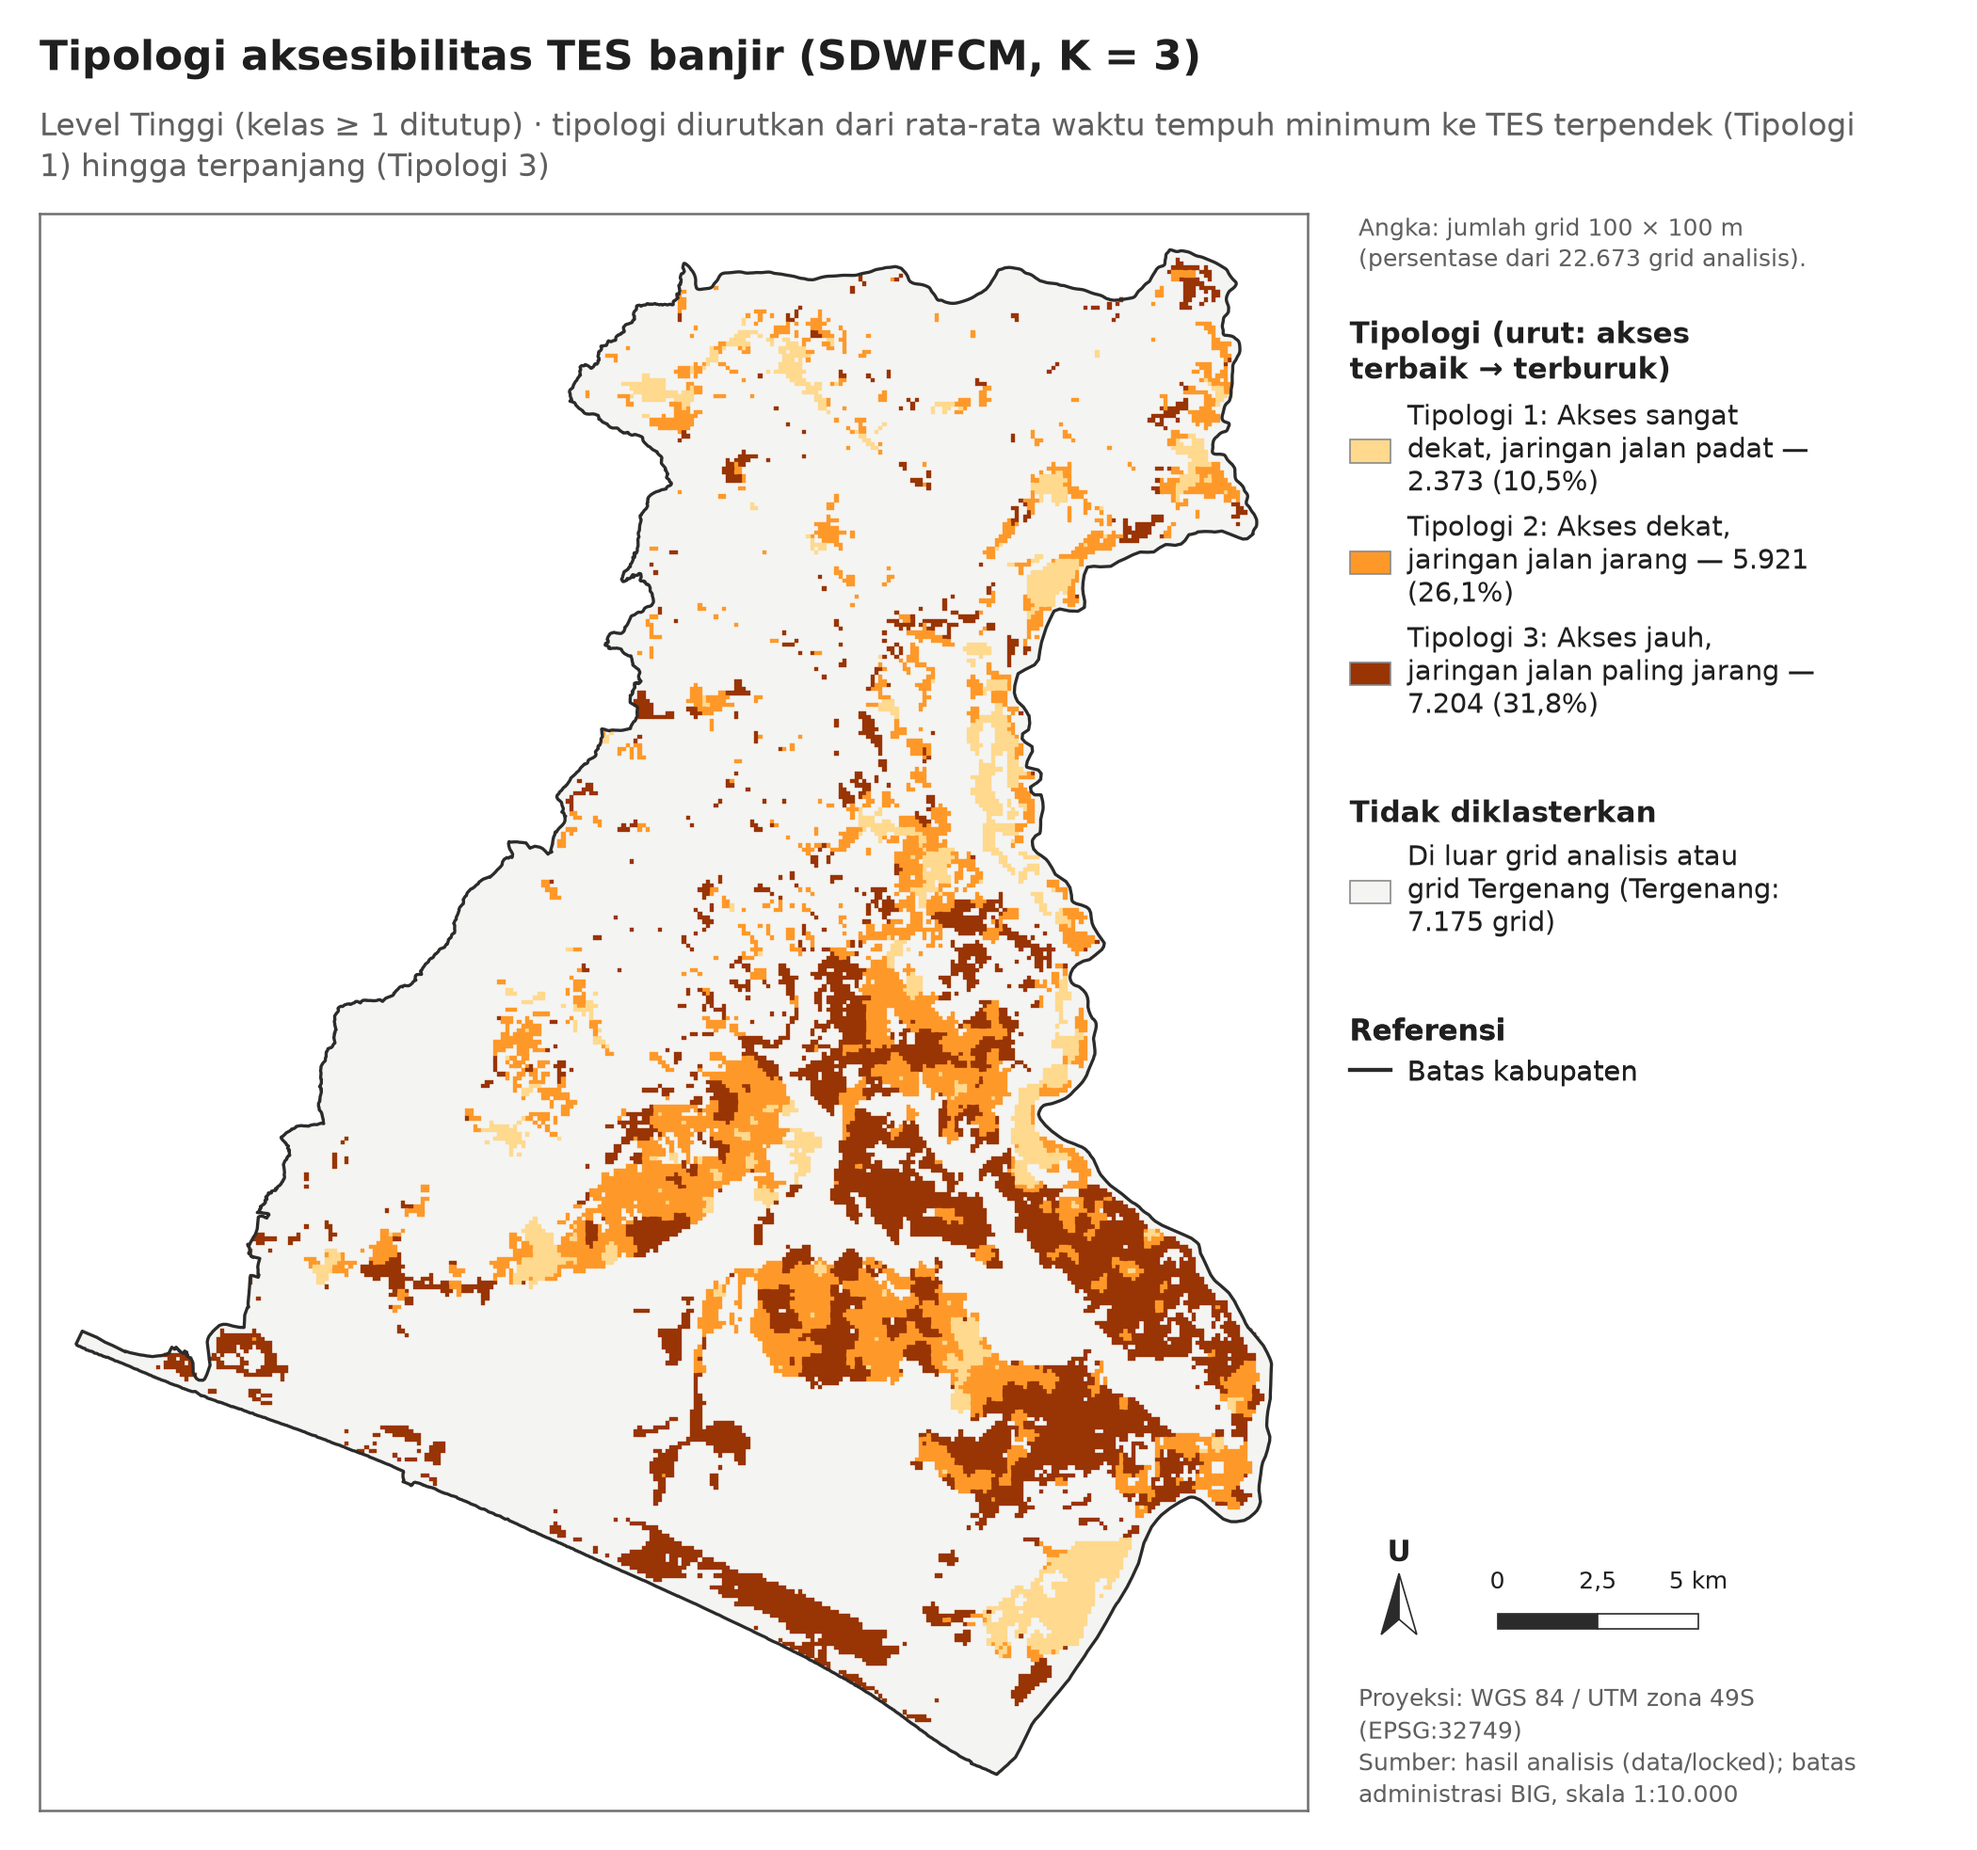
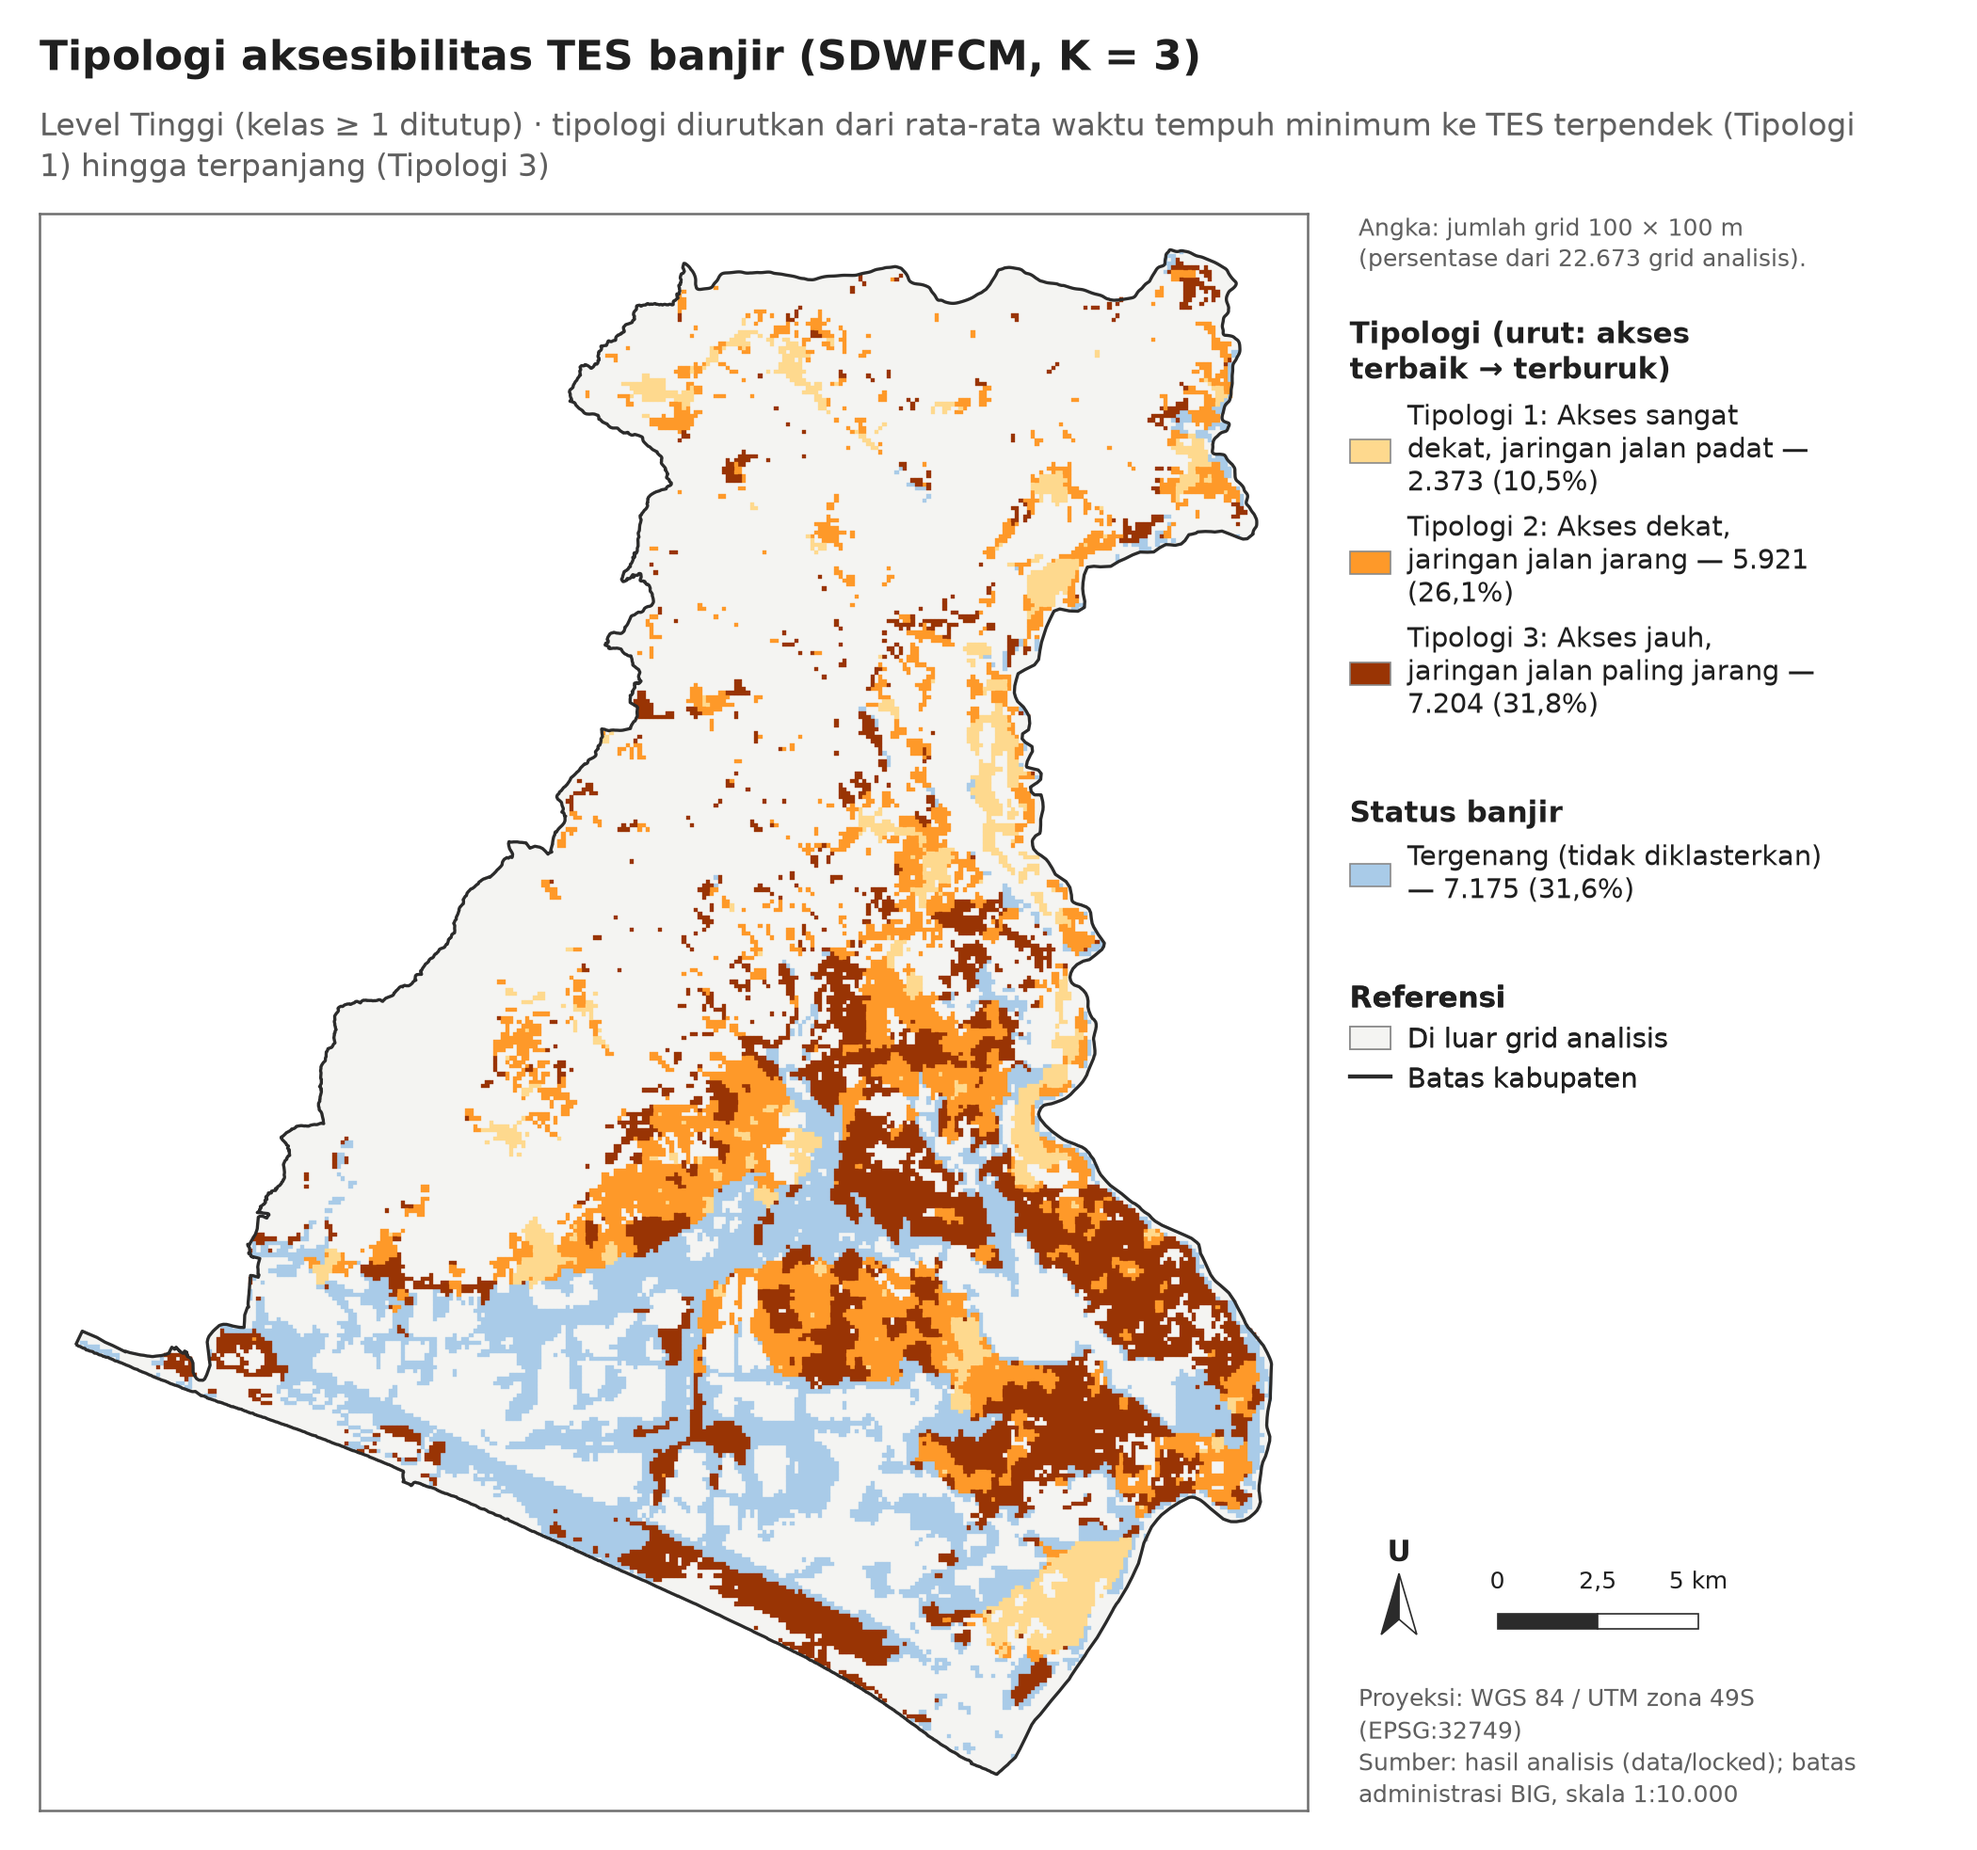
Peta tipologi/keanggotaan: pisahkan Tergenang dari area di luar grid analisis
- Grid Tergenang (tidak diklasterkan) digambar biru lembut dengan legenda "Status banjir" sendiri; area di luar
  grid analisis tetap abu-abu sangat muda di kelompok Referensi
- Skala warna keanggotaan dimulai dari YlOrBr 0,35 agar keanggotaan 0 tidak menyerupai latar netral
- CATATAN_TEMUAN N-3 diperbarui

Data, kelas, tabel, dan hasil terkunci tidak berubah.

diff --git a/scripts/export_bab4.py b/scripts/export_bab4.py
@@ -886,23 +886,28 @@ def write_maps(R, grid, out_dir):
                              if np.sum(m) else [])
     ev, v = PU.angka(EVAC_TIME_MIN), PU.angka(Cfg().walking_speed_m_per_min)
 
-    # 1. Tipologi SDWFCM (ordinal: Tipologi 1 = akses terbaik). Grid Tergenang tidak diklasterkan → tidak digambar
-    #    (keputusan peneliti; tampil pada peta Grid Tergenang) dan menyatu dengan latar netral "tidak diklasterkan".
+    # 1. Tipologi SDWFCM (ordinal: Tipologi 1 = akses terbaik). Grid Tergenang tidak diklasterkan; digambar biru
+    #    lembut (status banjir) agar tidak tertukar dengan area di luar grid analisis (netral).
     for k in [int(x) for x in R["k_keluaran"]]:
         pal = PU.TIPOLOGI[k]
         for key in LEVEL_ORDER:
             st = g[f"state_{key}_k{k}"].values
             ada = st < k
+            tg = st == k
+
+            def gambar(ax, st=st, ada=ada, tg=tg, pal=pal):
+                PU.isi_grid(ax, g[tg], W["tergenang_latar"])
+                PU.isi_grid(ax, g[ada], np.array(pal)[st[ada]])
             _peta_kabupaten(
                 d / f"tipologi_K{k}_{key}.png", f"Tipologi aksesibilitas TES banjir (SDWFCM, K = {k})",
                 f"{lv(key)} · tipologi diurutkan dari rata-rata waktu tempuh minimum ke TES terpendek (Tipologi 1) "
                 f"hingga terpanjang (Tipologi {k})",
-                lambda ax: PU.isi_grid(ax, g[ada], np.array(pal)[st[ada]]),
+                gambar,
                 [("Tipologi (urut: akses terbaik → terburuk)", [PU.kotak(pal[c], lab(tip(c, k), st == c))
                                                                 for c in range(k)]),
-                 ("Tidak diklasterkan", [PU.kotak(W["luar_grid"], "Di luar grid analisis atau grid Tergenang"
-                                         + (f" (Tergenang: {PU.angka(int(np.sum(st == k)))} grid)" if np.sum(st == k) else ""))]),
-                 ("Referensi", [PU.handle_batas_kab()])], catatan)
+                 *([("Status banjir", [PU.kotak(W["tergenang_latar"], lab("Tergenang (tidak diklasterkan)", tg))])]
+                   if np.sum(tg) else []),
+                 _referensi(PU)], catatan)
 
     # 2. Kategori akses (ordinal Terjangkau → Jauh → Terputus; Tergenang = status banjir terpisah)
     for key in ("baseline", "sedang", "tinggi"):
@@ -988,7 +993,8 @@ def write_maps(R, grid, out_dir):
 def write_membership_maps(R, g, d, plt, k=4, klaster=(2, 3)):
     """Peta derajat keanggotaan fuzzy terkunci (u_c, K = 4) terhadap Tipologi 3 dan Tipologi 4, per level. Hanya
     visualisasi dari thesis_pooled_results.csv.gz; grid Tergenang tidak diklasterkan sehingga tidak digambar (latar
-    netral "tidak diklasterkan"). Dua peta berdampingan dengan satu panel dan satu skala warna bersama."""
+    biru lembut sebagai status banjir, terpisah dari area di luar grid analisis). Dua peta berdampingan dengan satu
+    panel dan satu skala warna bersama."""
     import matplotlib
     from matplotlib.colors import LinearSegmentedColormap
     from scripts import peta_util as PU
@@ -996,7 +1002,8 @@ def write_membership_maps(R, g, d, plt, k=4, klaster=(2, 3)):
     if str(k) not in R["model"] or not pool_f.exists():
         return
     base = matplotlib.colormaps["YlOrBr"]
-    cmap = LinearSegmentedColormap.from_list("keanggotaan", base(np.linspace(0.15, 1.0, 256)))
+    # mulai 0,35: keanggotaan 0 tetap berbeda dari latar netral "di luar grid analisis"
+    cmap = LinearSegmentedColormap.from_list("keanggotaan", base(np.linspace(0.35, 1.0, 256)))
     cols = [f"u{c}_k{k}" for c in klaster]
     pool = pd.read_csv(pool_f, usecols=["id_grid", "level"] + cols)
     rasio = _rasio_kabupaten()
@@ -1006,7 +1013,9 @@ def write_membership_maps(R, g, d, plt, k=4, klaster=(2, 3)):
         for ax, c, col in zip(axes, klaster, cols):
             val = g["id_grid"].map(sub[col])
             ada = val.notna().values
+            tg = g[f"tergenang_{key}"].values == 1
             PU.latar_kabupaten(ax)
+            PU.isi_grid(ax, g[tg], PU.WARNA["tergenang_latar"])
             PU.isi_grid(ax, g[ada], cmap(val[ada].values))
             PU.gambar_batas(ax)
             PU.atur_batas(ax, *PU.batas_tampilan_kabupaten(rasio))
@@ -1016,9 +1025,10 @@ def write_membership_maps(R, g, d, plt, k=4, klaster=(2, 3)):
                  "terburuk (0 = bukan anggota, 1 = anggota penuh)")
         y = PU.kolorbar(panel, cmap, 0, 1, "Derajat keanggotaan")
         y_blok = PU.blok_bawah(panel, axes[0], SUMBER_PETA)
-        sisa = PU.legenda(panel, [("Tidak diklasterkan", [PU.kotak(PU.WARNA["luar_grid"],
-                                                                   "Di luar grid analisis atau grid Tergenang")]),
-                                  ("Referensi", [PU.handle_batas_kab()])], y_awal=y)
+        n_tg = int((g[f"tergenang_{key}"].values == 1).sum())
+        sisa = PU.legenda(panel, [*([("Status banjir", [PU.kotak(PU.WARNA["tergenang_latar"], PU.label_hitung(
+                                       "Tergenang (tidak diklasterkan)", n_tg, len(g)))])] if n_tg else []),
+                                  _referensi(PU)], y_awal=y)
         PU.periksa_ruang(sisa, y_blok, f"keanggotaan_K{k}_{key}")
         PU.simpan(fig, d / f"keanggotaan_K{k}_{key}.png")
 

diff --git a/scripts/peta_util.py b/scripts/peta_util.py
@@ -42,6 +42,7 @@ WARNA = {
     "luar_grid": "#f4f4f2",        # di dalam kabupaten, di luar grid analisis / tidak diklasterkan
     "grid_lain": "#c8c8c8",        # grid analisis tanpa kategori yang disorot (Non-TAS, bukan TAS, lainnya)
     "tergenang": "#5b9bd5",        # genangan banjir (satu-satunya pemakaian biru)
+    "tergenang_latar": "#a9cbe8",  # Tergenang pada peta yang tidak mengklasterkannya (biru sama, lebih lembut)
     "tak_terjangkau": "#7f2f0a",   # tidak terjangkau lewat jaringan jalan (bukan hitam: batas wilayah gelap)
     "tas": "#aa4499",              # Titik Aman Semu
     "dipicu": "#d55e00",           # muncul/dipicu oleh banjir

diff --git a/tests/test_peta_util.py b/tests/test_peta_util.py
@@ -100,7 +100,7 @@ def test_biru_hanya_untuk_banjir():
         return s_ > 0.25 and 185 <= h * 360 <= 245
     semua = {**P.WARNA, **{f"tip{k}_{i}": c for k, r in P.TIPOLOGI.items() for i, c in enumerate(r)},
              **{f"pend_{k}_{i}": c for k, r in P.PENDUDUK.items() for i, c in enumerate(r)}}
-    assert {k for k, c in semua.items() if biru(c)} <= {"tergenang", "jalan_tutup"}
+    assert {k for k, c in semua.items() if biru(c)} <= {"tergenang", "tergenang_latar", "jalan_tutup"}
 
 
 def test_batas_kabupaten_satu_poligon_utm():

diff --git a/docs/CATATAN_TEMUAN.md b/docs/CATATAN_TEMUAN.md
@@ -646,9 +646,11 @@ Tidak ada perubahan pada data, geometri, kelas, ambang, CRS, maupun hasil terkun
   Satu pasangan masih di bawah ambang ketat: "Menjadi Non-TAS" vs "Menjadi TES terdekat tidak terjangkau" pada peta
   perubahan TAS (ΔE deuteranopia ≈ 10; masing-masing 3 dan 7 grid); dibedakan juga oleh label legenda.
 - **N-3. Area kosong diberi makna.** Grid analisis hanya mencakup ± 39% luas kabupaten; area kabupaten di luar grid
-  kini diisi abu-abu sangat muda ("Di luar grid analisis"). Pada peta tipologi dan keanggotaan, grid Tergenang tetap
-  tidak digambar (keputusan K-4) dan menyatu dengan kelas netral "Tidak diklasterkan: di luar grid analisis atau grid
-  Tergenang" (jumlah grid Tergenang dicantumkan), sehingga tidak ada lagi area putih yang ambigu.
+  diisi abu-abu sangat muda ("Di luar grid analisis", kelompok Referensi). Pada peta tipologi dan keanggotaan, grid
+  Tergenang (tidak diklasterkan) digambar **biru lembut** (#a9cbe8, keluarga biru genangan) dengan legenda sendiri
+  "Status banjir: Tergenang (tidak diklasterkan) — n (%)", sehingga tidak lagi berbagi warna dan legenda dengan area
+  di luar grid (koreksi peneliti; menggantikan penggabungan keduanya dalam satu kelas netral). Skala warna keanggotaan
+  dimulai dari YlOrBr 0,35 agar keanggotaan 0 tidak menyerupai latar netral.
 - **N-4. Legenda** memuat jumlah grid dan persentase (dari 22.673 grid) yang dihitung dari data, dikelompokkan
   menjadi kategori utama, status/kondisi tambahan, dan referensi. Dua label diperjelas tanpa mengubah data:
   "TAS baru akibat banjir" → "TAS baru (bukan TAS di Baseline)" (kelas ini tidak menguji penyebab; penyebab ada pada
